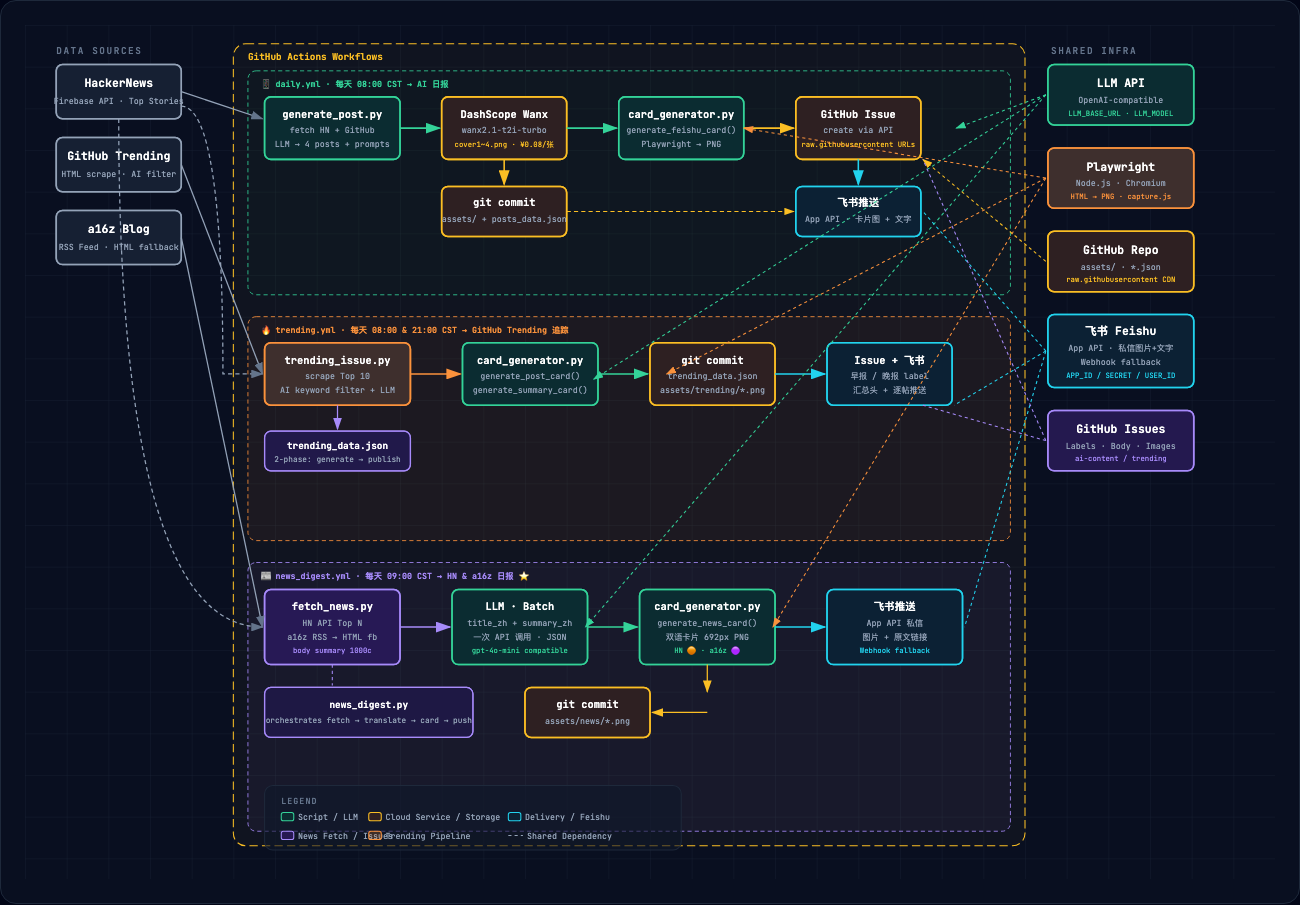
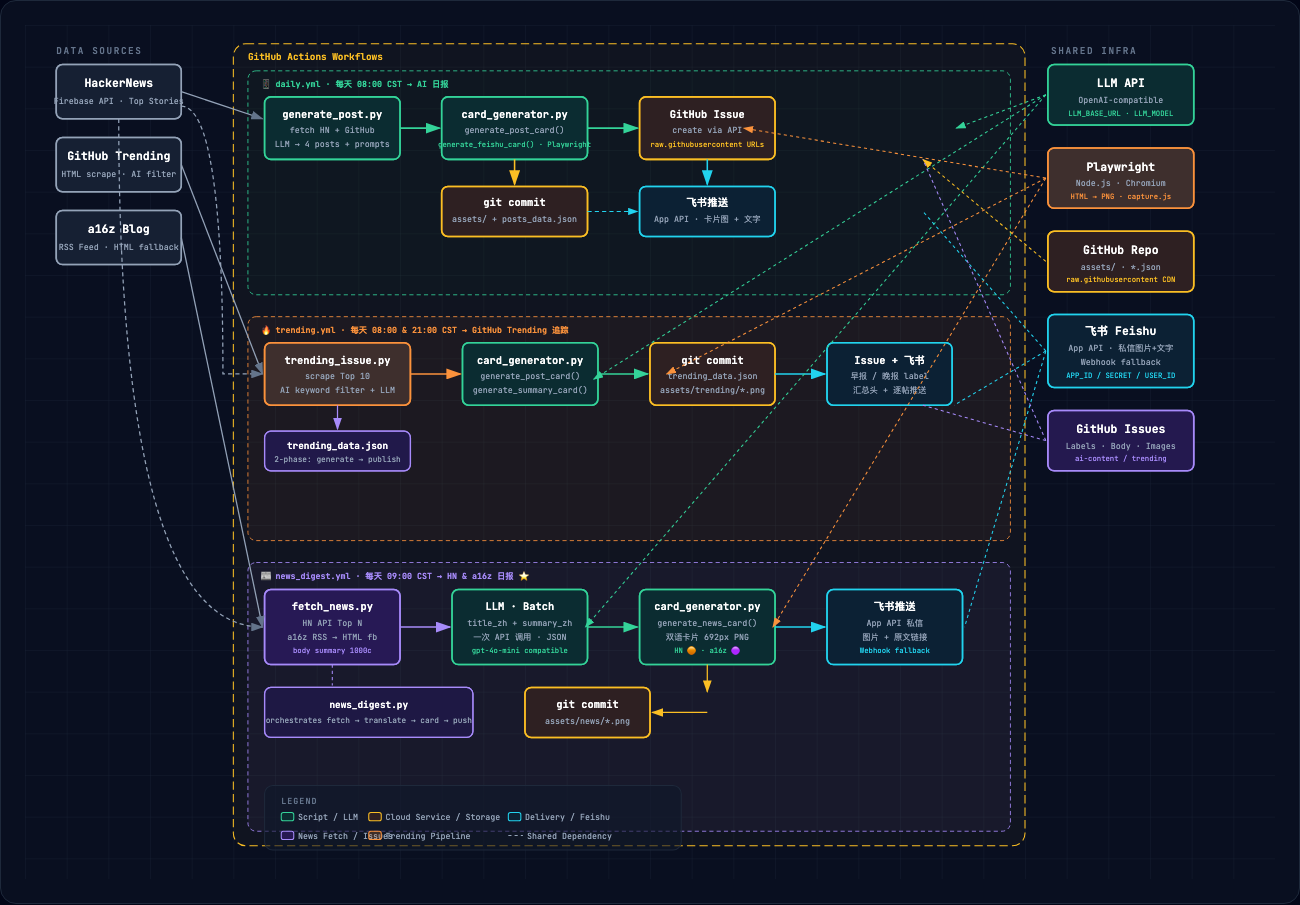
docs: update architecture diagram — remove DashScope Wanx, cover images via Playwright

Changed region(s): [[0.3385, 0.0928, 0.7077, 0.2785]]

diff --git a/architecture.html b/architecture.html
@@ -153,49 +153,43 @@
       <text x="295" y="104" fill="#94a3b8" font-size="8" text-anchor="middle">fetch HN + GitHub</text>
       <text x="295" y="117" fill="#94a3b8" font-size="8" text-anchor="middle">LLM → 4 posts + prompts</text>
 
-      <!-- Wanx Image Gen -->
-      <rect x="400" y="69" width="120" height="60" rx="6" fill="#0f172a" stroke="#fbbf24" stroke-width="1.5"/>
-      <rect x="400" y="69" width="120" height="60" rx="6" fill="rgba(120,53,15,0.3)" stroke="#fbbf24" stroke-width="1.5"/>
-      <text x="460" y="89" fill="white" font-size="10" font-weight="600" text-anchor="middle">DashScope Wanx</text>
-      <text x="460" y="104" fill="#94a3b8" font-size="8" text-anchor="middle">wanx2.1-t2i-turbo</text>
-      <text x="460" y="117" fill="#fbbf24" font-size="7" text-anchor="middle">cover1~4.png · ¥0.08/张</text>
-
       <!-- card_generator (daily) -->
-      <rect x="570" y="69" width="120" height="60" rx="6" fill="#0f172a" stroke="#34d399" stroke-width="1.5"/>
-      <rect x="570" y="69" width="120" height="60" rx="6" fill="rgba(6,78,59,0.4)" stroke="#34d399" stroke-width="1.5"/>
-      <text x="630" y="89" fill="white" font-size="10" font-weight="600" text-anchor="middle">card_generator.py</text>
-      <text x="630" y="104" fill="#94a3b8" font-size="8" text-anchor="middle">generate_feishu_card()</text>
-      <text x="630" y="117" fill="#94a3b8" font-size="8" text-anchor="middle">Playwright → PNG</text>
+      <rect x="400" y="69" width="140" height="60" rx="6" fill="#0f172a" stroke="#34d399" stroke-width="1.5"/>
+      <rect x="400" y="69" width="140" height="60" rx="6" fill="rgba(6,78,59,0.4)" stroke="#34d399" stroke-width="1.5"/>
+      <text x="470" y="89" fill="white" font-size="10" font-weight="600" text-anchor="middle">card_generator.py</text>
+      <text x="470" y="104" fill="#94a3b8" font-size="8" text-anchor="middle">generate_post_card()</text>
+      <text x="470" y="117" fill="#34d399" font-size="7" text-anchor="middle">generate_feishu_card() · Playwright</text>
 
       <!-- GitHub Issue -->
-      <rect x="740" y="69" width="120" height="60" rx="6" fill="#0f172a" stroke="#fbbf24" stroke-width="1.5"/>
-      <rect x="740" y="69" width="120" height="60" rx="6" fill="rgba(120,53,15,0.3)" stroke="#fbbf24" stroke-width="1.5"/>
-      <text x="800" y="89" fill="white" font-size="10" font-weight="600" text-anchor="middle">GitHub Issue</text>
-      <text x="800" y="104" fill="#94a3b8" font-size="8" text-anchor="middle">create via API</text>
-      <text x="800" y="117" fill="#fbbf24" font-size="7" text-anchor="middle">raw.githubusercontent URLs</text>
+      <rect x="590" y="69" width="130" height="60" rx="6" fill="#0f172a" stroke="#fbbf24" stroke-width="1.5"/>
+      <rect x="590" y="69" width="130" height="60" rx="6" fill="rgba(120,53,15,0.3)" stroke="#fbbf24" stroke-width="1.5"/>
+      <text x="655" y="89" fill="white" font-size="10" font-weight="600" text-anchor="middle">GitHub Issue</text>
+      <text x="655" y="104" fill="#94a3b8" font-size="8" text-anchor="middle">create via API</text>
+      <text x="655" y="117" fill="#fbbf24" font-size="7" text-anchor="middle">raw.githubusercontent URLs</text>
 
       <!-- git commit (daily) -->
-      <rect x="400" y="155" width="120" height="48" rx="6" fill="#0f172a" stroke="#fbbf24" stroke-width="1.5"/>
-      <rect x="400" y="155" width="120" height="48" rx="6" fill="rgba(120,53,15,0.3)" stroke="#fbbf24" stroke-width="1.5"/>
-      <text x="460" y="174" fill="white" font-size="10" font-weight="600" text-anchor="middle">git commit</text>
-      <text x="460" y="189" fill="#94a3b8" font-size="8" text-anchor="middle">assets/ + posts_data.json</text>
+      <rect x="400" y="155" width="140" height="48" rx="6" fill="#0f172a" stroke="#fbbf24" stroke-width="1.5"/>
+      <rect x="400" y="155" width="140" height="48" rx="6" fill="rgba(120,53,15,0.3)" stroke="#fbbf24" stroke-width="1.5"/>
+      <text x="470" y="174" fill="white" font-size="10" font-weight="600" text-anchor="middle">git commit</text>
+      <text x="470" y="189" fill="#94a3b8" font-size="8" text-anchor="middle">assets/ + posts_data.json</text>
 
       <!-- Feishu notify (daily) -->
-      <rect x="740" y="155" width="120" height="48" rx="6" fill="#0f172a" stroke="#22d3ee" stroke-width="1.5"/>
-      <rect x="740" y="155" width="120" height="48" rx="6" fill="rgba(8,51,68,0.4)" stroke="#22d3ee" stroke-width="1.5"/>
-      <text x="800" y="174" fill="white" font-size="10" font-weight="600" text-anchor="middle">飞书推送</text>
-      <text x="800" y="189" fill="#94a3b8" font-size="8" text-anchor="middle">App API · 卡片图 + 文字</text>
+      <rect x="590" y="155" width="130" height="48" rx="6" fill="#0f172a" stroke="#22d3ee" stroke-width="1.5"/>
+      <rect x="590" y="155" width="130" height="48" rx="6" fill="rgba(8,51,68,0.4)" stroke="#22d3ee" stroke-width="1.5"/>
+      <text x="655" y="174" fill="white" font-size="10" font-weight="600" text-anchor="middle">飞书推送</text>
+      <text x="655" y="189" fill="#94a3b8" font-size="8" text-anchor="middle">App API · 卡片图 + 文字</text>
 
       <!-- Lane 1 arrows -->
+      <!-- generate_post → card_generator -->
       <line x1="360" y1="99" x2="398" y2="99" stroke="#34d399" stroke-width="1.5" marker-end="url(#arr-em)"/>
-      <line x1="520" y1="99" x2="568" y2="99" stroke="#34d399" stroke-width="1.5" marker-end="url(#arr-em)"/>
-      <line x1="690" y1="99" x2="738" y2="99" stroke="#fbbf24" stroke-width="1.5" marker-end="url(#arr-amb)"/>
-      <!-- Wanx → git commit -->
-      <line x1="460" y1="129" x2="460" y2="153" stroke="#fbbf24" stroke-width="1.5" marker-end="url(#arr-amb)"/>
-      <!-- git commit → GitHub Issue (through repo) -->
-      <line x1="520" y1="179" x2="738" y2="179" stroke="#fbbf24" stroke-width="1" stroke-dasharray="4,3" marker-end="url(#arr-amb)"/>
+      <!-- card_generator → GitHub Issue -->
+      <line x1="540" y1="99" x2="588" y2="99" stroke="#34d399" stroke-width="1.5" marker-end="url(#arr-em)"/>
+      <!-- card_generator → git commit -->
+      <line x1="470" y1="129" x2="470" y2="153" stroke="#fbbf24" stroke-width="1.5" marker-end="url(#arr-amb)"/>
+      <!-- git commit → Feishu (dashed) -->
+      <line x1="540" y1="179" x2="588" y2="179" stroke="#22d3ee" stroke-width="1" stroke-dasharray="4,3" marker-end="url(#arr-cyan)"/>
       <!-- Issue → Feishu -->
-      <line x1="800" y1="129" x2="800" y2="153" stroke="#22d3ee" stroke-width="1.5" marker-end="url(#arr-cyan)"/>
+      <line x1="655" y1="129" x2="655" y2="153" stroke="#22d3ee" stroke-width="1.5" marker-end="url(#arr-cyan)"/>
 
 
       <!-- ────────────── LANE 2: GitHub Trending (middle) ────────────── -->
